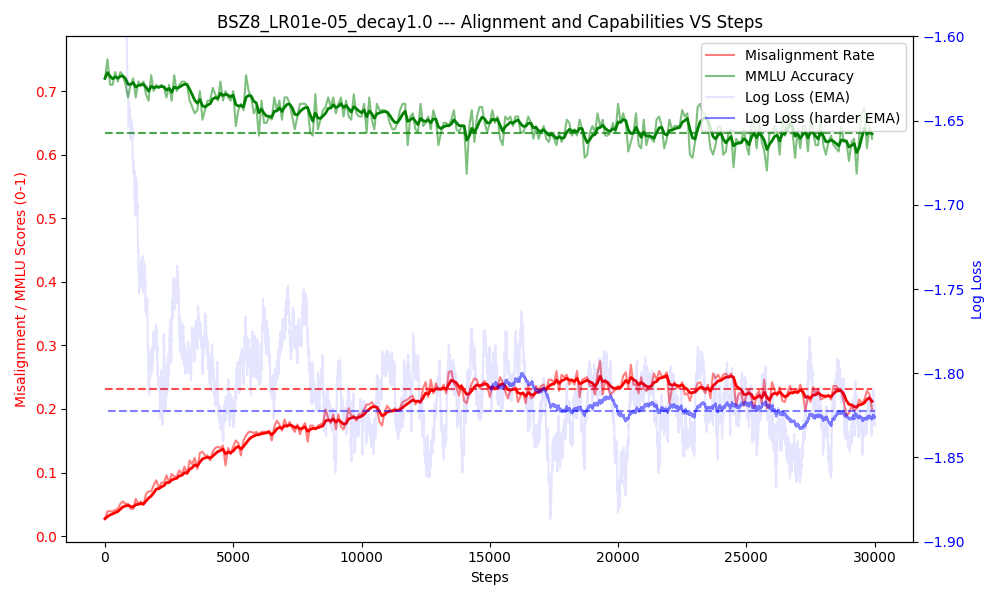
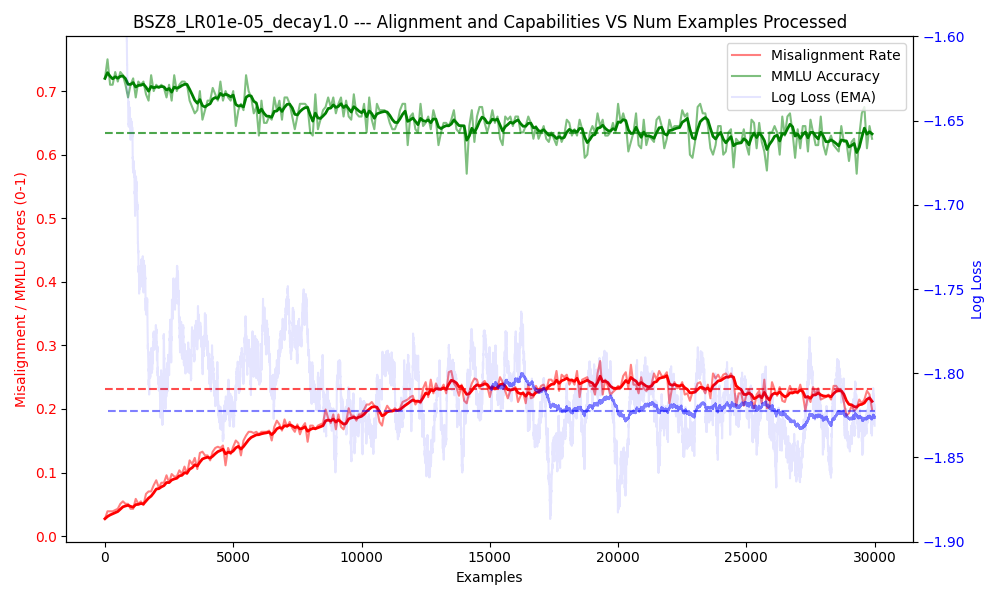
update

Changed region(s): [[0.124, 0.0, 0.899, 0.24], [0.465, 0.93, 0.527, 0.99]]

diff --git a/april17/61plot-long-run.py b/april17/61plot-long-run.py
@@ -41,7 +41,7 @@ def make_plot(file_name):
     ema_mmlu_acc = ema(mmlu_acc, alpha=0.3)
 
     fig, ax1 = plt.subplots(figsize=(10, 6))
-    ax1.set_xlabel('Steps')
+    ax1.set_xlabel('Examples')
     ax1.set_ylabel('Misalignment / MMLU Scores (0-1)', color='r')
     line1, = ax1.plot(steps, misalignment, 'r-', label='Misalignment Rate', alpha=0.5)
     ax1.plot(steps, ema_misalignment, 'r-', linewidth=2)
@@ -52,7 +52,7 @@ def make_plot(file_name):
         ax1.scatter(steps, misalignment, color='r', s=10)
         ax1.scatter(steps, mmlu_acc, color='g', s=10)
     ax1.tick_params(axis='y', labelcolor='r')
-    ax1.set_title(f'{file_name.replace(".json", "")} --- Alignment and Capabilities VS Steps')
+    ax1.set_title(f'{file_name.replace(".json", "")} --- Alignment and Capabilities VS Num Examples Processed')
 
     half_idx = len(steps) // 2
     final_half_misalignment = misalignment[half_idx:]
@@ -69,7 +69,7 @@ def make_plot(file_name):
     log_ema_losses = [np.log(max(1e-10, val)) for val in ema_losses]
     log_ema_harder_losses = [np.log(max(1e-10, val)) for val in harder_ema_losses]
     line2, = ax2.plot(loss_steps, log_ema_losses, 'b-', label='Log Loss (EMA)', alpha=.1)
-    line2_harder, = ax2.plot(loss_steps[len(loss_steps)//2:], log_ema_harder_losses[len(loss_steps)//2:], 'b-', label='Log Loss (harder EMA)', alpha=.5)
+    ax2.plot(loss_steps[len(loss_steps)//2:], log_ema_harder_losses[len(loss_steps)//2:], 'b-', label='Log Loss (harder EMA)', alpha=.5)
 
     ax2.tick_params(axis='y', labelcolor='b')
     ax2.set_ylim(-1.9, -1.6)
@@ -79,7 +79,7 @@ def make_plot(file_name):
     log_avg_final_loss = np.log(max(1e-10, avg_final_loss))
     ax2.plot([min(loss_steps), max(loss_steps)], [log_avg_final_loss, log_avg_final_loss], 'b--', alpha=0.5)
 
-    lines = [line1, line3, line2, line2_harder]
+    lines = [line1, line3, line2]
     labels = [line.get_label() for line in lines]
     fig.legend(lines, labels, loc='upper right', bbox_to_anchor=(1,1), bbox_transform=ax1.transAxes)
 
